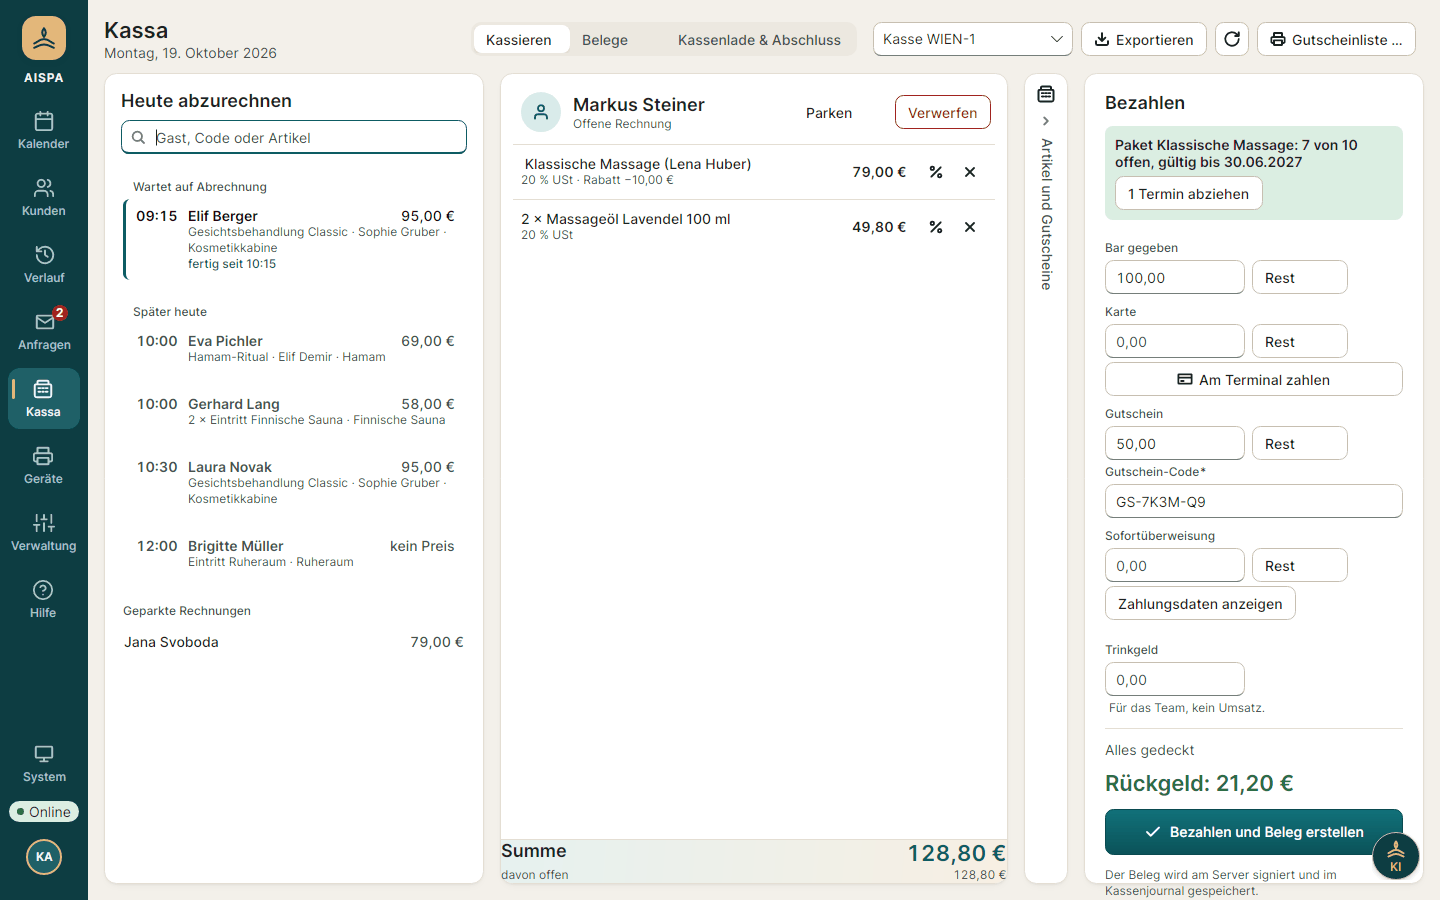
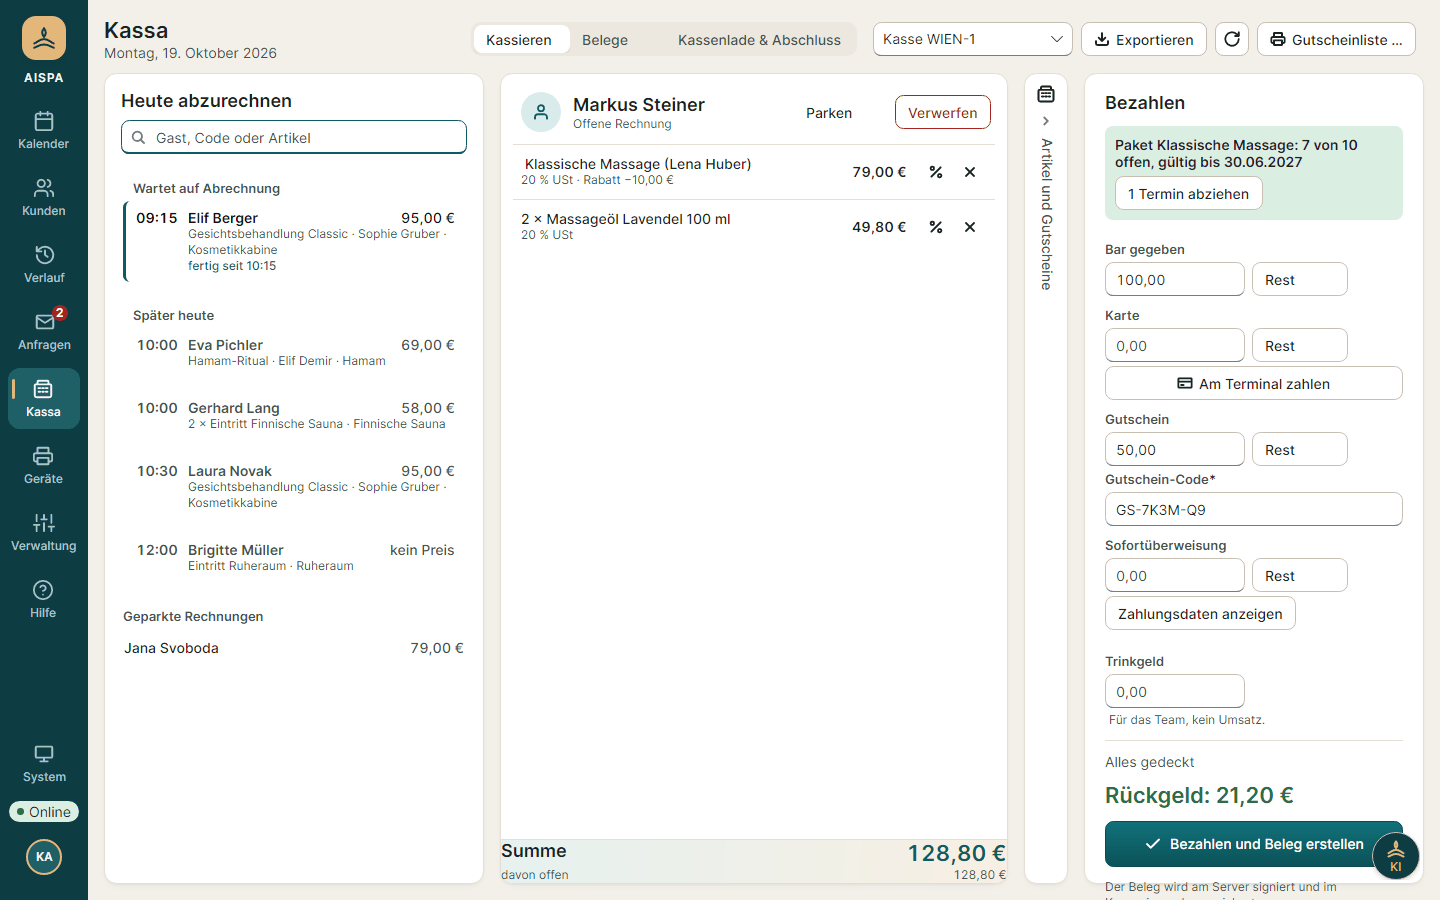
Beschriftungen größer und halbfett: Stufe „Beschriftung“ 13/600/18 (P12)
Auftrag des Auftraggebers vom 17.11.2026: Die kleinen grauen Einordnungen sind auf
allen Masken zu klein. Feldbeschriftung, Gruppentitel, Tabellenkopf und Kennzahl-
Beschriftung stehen jetzt in 13 px, Gewicht 600, Zeilenhöhe 18, fg-2; Hinweise
bleiben 12/400. Brief, Tokendatei, Styles.axaml und index.css (gemeinsame Variablen
und Regel), handgesetzte Köpfe in den Ansichten auf die Stufe gebracht, Tests und
Handbuchbilder nachgezogen.

diff --git a/web/src/index.css b/web/src/index.css
@@ -9,6 +9,10 @@
 }
 
 :root {
+  /* Stufe „Beschriftung“ (Design-Brief 3): gemeinsame Werte für Feldbeschriftung, Gruppentitel und Tabellenkopf */
+  --label-size: 13px;
+  --label-weight: 600;
+  --label-line: 18px;
   /* Farben wie in der Windows-App (Themes/Colors.axaml), damit die Verwaltung dort nicht fremd wirkt (ADR 0053). */
   --bg: #f3f0ea;
   --fg: #1a2321;
@@ -1076,7 +1080,6 @@ input[type='radio'] {
   display: flex;
   flex-direction: column;
   gap: 4px;
-  font-size: 12px;
 }
 
 .panel fieldset {
@@ -1354,12 +1357,6 @@ input[aria-invalid='true']:hover {
   gap: var(--space-label);
 }
 
-.money-field > label {
-  font-size: 12px;
-  font-weight: 500;
-  color: var(--muted);
-}
-
 .num > .money-field {
   align-items: flex-end;
 }
@@ -1374,14 +1371,30 @@ input[aria-invalid='true']:hover {
   margin-block: -4px;
 }
 
-/* Beschriftung eines Feldes (Design-Brief 3): 12,5 px, Gewicht 500, --muted, über dem Feld; Text neben Kontrollkästchen (label.inline) bleibt Text */
+/* Stufe „Beschriftung“ (Design-Brief 3, Auftraggeber 17.11.2026): 13 px, Gewicht 600, Zeilenhöhe 18, --muted. Gilt für Feldbeschriftung über dem Feld,
+   Tabellenkopf und Kennzahl-Beschriftung; Text neben Kontrollkästchen (label.inline) bleibt Text. Werte nur hier und in :root (Test designTokens.test.ts). */
 .form-grid label:not(.inline),
 .panel label:not(.inline),
 .new-customer label,
 label.stacked,
-.field-head label {
-  font-weight: 500;
+.field-head label,
+.money-field > label,
+.signup label,
+.scan-answers label:not(.inline),
+.edit-table th,
+.roster-table thead th,
+.assistant-answer th {
+  font-size: var(--label-size);
+  font-weight: var(--label-weight);
+  line-height: var(--label-line);
   color: var(--muted);
+}
+
+/* Eingabefelder erben die Schrift (font: inherit) und bleiben Text, auch innerhalb einer Beschriftung */
+:is(.form-grid label:not(.inline), .panel label:not(.inline), .new-customer label, label.stacked, .field-head label, .money-field > label, .signup label, .scan-answers label:not(.inline)) :is(input, select, textarea) {
+  font-size: 14px;
+  font-weight: 400;
+  line-height: 20px;
 }
 
 /* Das Farbfeld ist so hoch wie die anderen Felder, damit die Beschriftungen einer Zeile auf einer Höhe stehen. */
@@ -1492,9 +1505,6 @@ label.inline {
 
 .edit-table th {
   text-align: left;
-  font-weight: 500;
-  color: var(--muted);
-  font-size: 12px;
   border-bottom: 1px solid var(--border-strong);
 }
 
@@ -1812,8 +1822,6 @@ input.qty {
   position: sticky;
   top: 0;
   background: var(--surface);
-  font-weight: 500;
-  color: var(--muted);
   border-bottom-color: var(--border-strong);
 }
 
@@ -1868,7 +1876,6 @@ ul.roster-warning {
   display: flex;
   flex-direction: column;
   gap: 4px;
-  font-size: 12px;
 }
 
 /* Buchhaltung */
@@ -1987,7 +1994,6 @@ th.amount {
   display: flex;
   flex-direction: column;
   gap: 4px;
-  font-size: 12px;
 }
 
 .scan-answers .yesno {
@@ -2499,7 +2505,6 @@ label.stacked {
   display: flex;
   flex-direction: column;
   gap: var(--space-label);
-  font-size: 12px;
 }
 
 label.stacked + label.stacked,

diff --git a/web/src/designTokens.test.ts b/web/src/designTokens.test.ts
@@ -88,6 +88,14 @@ describe('Design-Token: Schriftstufen in index.css', () => {
     expect(Number(/font-weight:\s*(\d+)/.exec(block)?.[1])).toBe(gewicht)
   })
 
+  it('Beschriftung: die Variablen in :root tragen Größe, Zeilenhöhe und Gewicht des Briefs', () => {
+    const level = typeScale.schriftstufen.find((entry) => entry.name === 'Beschriftung')!
+    const root = /^:root \{([\s\S]*?)^\}/m.exec(indexCss)?.[1] ?? ''
+    expect(Number(/--label-size:\s*([0-9.]+)px/.exec(root)?.[1])).toBe(level.groesse)
+    expect(Number(/--label-line:\s*([0-9.]+)px/.exec(root)?.[1])).toBe(level.zeile)
+    expect(Number(/--label-weight:\s*(\d+)/.exec(root)?.[1])).toBe(level.gewicht)
+  })
+
   it('kennt nur Schriftgrößen der Stufen', () => {
     const sizes = [...indexCss.matchAll(/font-size:\s*([0-9.]+)px/g)].map((m) => Number(m[1]))
     expect([...new Set(sizes.filter((size) => !typeScale.schriftgroessen.includes(size)))]).toEqual([])

diff --git a/tests/AispaStudio.Desktop.Tests/ViewTests.Type.cs b/tests/AispaStudio.Desktop.Tests/ViewTests.Type.cs
@@ -19,7 +19,7 @@ public sealed partial class ViewTests
             new TextBlock { Text = "Zwischentitel 16/22 Semibold", Classes = { "h3" } },
             new TextBlock { Text = "Text 14/20 Regular: Der Termin von Mia Muster beginnt um 10:30." },
             new TextBlock { Text = "Klein 12/16 Regular: Hilfetext unter einem Feld.", Classes = { "small" } },
-            new TextBlock { Text = "Beschriftung 12/16 Medium", Classes = { "label" } },
+            new TextBlock { Text = "Beschriftung 13/18 Semibold", Classes = { "label" } },
             new TextBlock { Text = "Gruppentitel in Satzschreibweise", Classes = { "group" } },
             new Border { Classes = { "pill", "accent" }, Child = new TextBlock { Text = "Mini 12/14 Medium" } },
         },
@@ -38,8 +38,8 @@ public sealed partial class ViewTests
         Assert.Equal((16, 22, FontWeight.SemiBold), Of("Zwischentitel"));
         Assert.Equal((14, double.NaN, FontWeight.Normal), Of("Text 14"));
         Assert.Equal((12, 16, FontWeight.Normal), Of("Klein"));
-        Assert.Equal((12, 16, FontWeight.Medium), Of("Beschriftung"));
-        Assert.Equal((12, 16, FontWeight.Medium), Of("Gruppentitel"));
+        Assert.Equal((13, 18, FontWeight.SemiBold), Of("Beschriftung"));
+        Assert.Equal((13, 18, FontWeight.SemiBold), Of("Gruppentitel"));
         Assert.Equal((12, 14, FontWeight.Medium), Of("Mini"));
     }, "schriftstufen");
 }

diff --git a/docs/design.md b/docs/design.md
@@ -123,8 +123,8 @@ Text auf seiner Fläche erreicht mindestens 4,5:1. 3:1 gilt für Rahmen von Feld
 
 - Familie, beide Oberflächen: `Inter, "Segoe UI Variable Text", "Segoe UI", system-ui, sans-serif`. App: `FontFamily` einmal am `Window` setzen. **Gewollte Abweichung von Fluent 2** (Hausschrift Segoe UI Variable): Inter, damit App und Web dieselbe Schrift zeigen; Segoe UI Variable bleibt der Rückfall. Das Web liefert Inter 3.019 (dieselbe Version wie die App) als lokale Variable-WOFF2 mit `font-display: swap` und Preload aus (`web/src/assets/fonts/`), nur für die Verwaltung (Team-Oberfläche und Hilfe). Der Kundenbereich bleibt bei der Systemschrift (`system-ui`), damit er unter dem Budget von 100 kB bleibt und keine Schrift nachlädt; ebenso „Mein Tag“ und die Betreiber-Seite. Monospace nur für Belege, Protokolle und Codes: `"Cascadia Mono", Consolas, ui-monospace, monospace`.
 - Ziffern in Tabellen, Beträgen, Uhrzeiten und Kennzahlen immer mit gleicher Breite: Web `font-variant-numeric: tabular-nums`, App `FontFeatures="tnum"` (Klasse `num`).
-- Schriftgewichte: nur 400, 500, 600. 550 und 700 **DARF ES NICHT** geben. Gewicht 500 ist eine **gewollte Abweichung von Fluent 2** (Windows kennt nur Regular und Semibold): Inter 500 trägt bei Knöpfen und Beschriftungen.
-- Mindestgröße (Fluent 2, WinUI): 12 px Regular und 14 px Semibold, nichts kleiner. Satzschreibweise nach deutscher Rechtschreibung, keine Versalien zur Betonung, kein Kursiv; `TextBlock.overline` **DARF NICHT** vorkommen.
+- Schriftgewichte: nur 400, 500, 600. 550 und 700 **DARF ES NICHT** geben. Gewicht 500 ist eine **gewollte Abweichung von Fluent 2** (Windows kennt nur Regular und Semibold): Inter 500 trägt bei Knöpfen, Reitern und Pillen; Beschriftungen stehen seit 17.11.2026 in 600.
+- Mindestgröße (Fluent 2, WinUI): 12 px Regular und 14 px Semibold, nichts kleiner; die Stufe „Beschriftung“ liegt mit 13/600 darüber (*festgelegt 17.11.2026, Auftraggeber*: die kleinen grauen Einordnungen waren auf allen Masken zu klein, „zumindest in bold“; Hinweise unter Feldern bleiben 12/400). Satzschreibweise nach deutscher Rechtschreibung, keine Versalien zur Betonung, kein Kursiv; `TextBlock.overline` **DARF NICHT** vorkommen.
 
 | Stufe | Größe | Gewicht | Zeilenhöhe | Verwendung | Web | App |
 |---|---|---|---|---|---|---|
@@ -133,7 +133,7 @@ Text auf seiner Fläche erreicht mindestens 4,5:1. 3:1 gilt für Rahmen von Feld
 | Zwischentitel | 16 | 600 | 22 | Abschnitt in einer Karte („Öffnungszeiten“) | `h3` | `TextBlock.h3` |
 | Text | 14 | 400 | 20 | alles ohne andere Angabe | `body` | Standard |
 | Klein | 12 | 400 | 16 | Hilfetext unter Feldern, Untertitel in Listen, Vorperiode in Kennzahlen | `.small` | `TextBlock.small` |
-| Beschriftung | 12 | 500 | 16 | Feldbeschriftung, Tabellenkopf, Kennzahl-Beschriftung; als Gruppentitel über Listen und Abschnitten (5.6) ohne den Feldabstand | `label`, `th` | `TextBlock.label`, als Gruppentitel `TextBlock.group` |
+| Beschriftung | 13 | 600 | 18 | Feldbeschriftung, Tabellenkopf, Kennzahl-Beschriftung; als Gruppentitel über Listen und Abschnitten (5.6) ohne den Feldabstand; fg-2, Kontrast auf surface, surface-2 und surface-3 mindestens 4,5 : 1 (gemessen 17.11.2026: hell 8,1 / 7,6 / 6,6, dunkel 8,4 / 7,8 auf surface, surface-2, surface-3) | `label`, `th` | `TextBlock.label`, als Gruppentitel `TextBlock.group` |
 | Mini | 12 | 500 | 14 | Pillen, Kennzeichen, Kürzel, Streifentext | `.status`, `.badge` | `Border.pill TextBlock`, `Border.stripe TextBlock` |
 | Zahl groß | 22 | 600 | 28 | Kennzahl-Wert | `.kpi-value` | `TextBlock.kpi` |
 
@@ -249,7 +249,7 @@ Gilt für Text, Zahl, Datum, Uhrzeit, mehrzeilig.
 
 - Fläche surface, Text fg, Rahmen 1 px line-strong, **Unterkante 1 px fg-3** (Kontrast 3:1, 2.6), Radius 8, Höhe 34 (mehrzeilig mindestens 68), Innenabstand 6 oben/unten, 10 links/rechts, Schrift 14. Platzhaltertext fg-3 ist nicht erlaubt; Platzhalter in fg-2 und nur als Beispiel („z. B. 60“), nie als Beschriftung.
 - Hover: Rahmen fg-2 (auch die Unterkante). Fokus: 4.5 (Ring, Rahmen accent und Unterstrich 2 px accent). Nur lesbar: Fläche surface-2, Rahmen line, Cursor Text, Fokus und Kopieren bleiben möglich. Fehler: Rahmen danger, darunter Text 12 px danger mit dem Fehlersatz des Servers. **Warnung am Feld** (z. B. „Gast existiert schon: Mia Muster“): Rahmen warn, Text 12 px warn. **Erfolg am Feld:** Text 12 px ok, Rahmen unverändert. Fehler, Warnung und Erfolg nennen Problem und Weg und ersetzen den Hilfetext. Der Rahmen von Fehler und Warnung behält seine Farbe auch beim Fokus (**gewollte Abweichung von Fluent 2**, wo der Rahmen beim Fokus wieder neutral wird: der Fehler soll beim Korrigieren sichtbar bleiben); Fokus-Unterstrich und Ring bleiben wie in 4.5.
-- Beschriftung **immer über** dem Feld (Stufe „Beschriftung“, fg-2), Abstand 4; nie links daneben, nie als Platzhalter. Der Hilfe-Knopf (5.11) steht rechts neben dem Gruppentitel mit 6 px Abstand, nur ausnahmsweise (heikle Wirkung, im PR begründet) rechts neben einer Beschriftung. Hilfetext unter dem Feld in Stufe „Klein“, fg-2, höchstens eine Zeile; bei einem Fehler ersetzt der Fehlertext den Hilfetext. Der Hilfetext ist ein Satz mit Punkt (**gewollte Abweichung von Fluent 2**, dort ohne Punkt: ein Satz bekommt immer seinen Punkt, einheitlich mit Abschnitt 1).
+- Beschriftung **immer über** dem Feld (Stufe „Beschriftung“ 13/600/18, fg-2; *Auftraggeber, 17.11.2026*), Abstand 4; nie links daneben, nie als Platzhalter. Der Hilfe-Knopf (5.11) steht rechts neben dem Gruppentitel mit 6 px Abstand, nur ausnahmsweise (heikle Wirkung, im PR begründet) rechts neben einer Beschriftung. Hilfetext unter dem Feld in Stufe „Klein“, fg-2, höchstens eine Zeile; bei einem Fehler ersetzt der Fehlertext den Hilfetext. Der Hilfetext ist ein Satz mit Punkt (**gewollte Abweichung von Fluent 2**, dort ohne Punkt: ein Satz bekommt immer seinen Punkt, einheitlich mit Abschnitt 1).
 - Web: die Beschriftung ist per `htmlFor`/`id` (`useId`) an das Feld gebunden; ein Hilfe-Knopf steht **außerhalb** des `<label>`, sonst bindet das Label an den Knopf.
 - Breiten (Web `max-width`, App `Width`): Zahl 120, PLZ 96, Land 72, Uhrzeit 100, Datum 160, Anrede 160, kurzer Text (Name) 280, Auswahl 220, Betrag 140, E-Mail/Telefon 280, Adresse und mehrzeiliger Text 100 % der Karte. Ein Feld füllt nie „aus Versehen“ die ganze Breite.
 - Einheiten stehen in der Beschriftung in Klammern („Dauer (min)“, „Preis (€)“), nicht im Feld. Klammern gibt es **nur** für Einheiten; Erklärungen („gültiger Name“) stehen im Hilfetext. Beschriftung ist ein Substantiv ohne Doppelpunkt. **Gewollte Abweichung von Fluent 2** (dort im Platzhalter): Der Platzhalter verschwindet beim Tippen, die Einheit soll stehen bleiben.

diff --git a/docs/umsetzung/pr-protokoll.md b/docs/umsetzung/pr-protokoll.md
@@ -6738,3 +6738,19 @@ Auftraggeber (23.10.2026): „Räume sollen wie Urlaub auch gesperrt werden kön
 - **Geprüft:** `LiveDeliveryTests`: neuer Fall „Fehler aus der SignalR-Backplane wird nur gewarnt“ vor der Änderung rot (NullReferenceException aus dem Konstruktor von `RedisHubLifetimeManager` nicht erkannt), danach grün; neuer Fall „Eigener Abbruch geht weiter“ sichert die Grenze. `LiveBackplaneTests` fünfmal hintereinander mit echtem Redis; `dotnet format --verify-no-changes`, `dotnet build -c Release`.
 - **Nicht geprüft:** Der genaue Abbruch lässt sich nicht gezielt nachstellen; der Test stellt ihn mit einem anderen Fehler aus derselben Assembly nach, die Läufe mit echtem Redis treffen ihn nur zufällig.
 
+## Beschriftungen und Kategorien größer und halbfett (P12, 17.11.2026)
+
+- **Auftrag:** Die kleinen grauen Einordnungen waren auf allen Masken zu klein, „zumindest in bold“ (Auftraggeber, 17.11.2026): Feldbeschriftungen, Kategorie- und Gruppenüberschriften in Listen, Tabellenköpfe. Hinweise unter Feldern bleiben 12/400.
+- **Was:** Die Stufe „Beschriftung“ ist jetzt 13 px, Gewicht 600, Zeilenhöhe 18, Farbe fg-2 (vorher 12/500/16). `docs/design.md` (Tabelle in Abschnitt 3, Mindestgröße, gewollte Abweichung zu Gewicht 500, 5.2), `docs/design-tokens.json` (Größe 13 neu in `schriftgroessen`), `Styles.axaml` (`TextBlock.label`, `TextBlock.group`), Web `index.css` mit den Variablen `--label-size`, `--label-weight`, `--label-line` und einer gemeinsamen Regel statt verstreuter Werte (Feldbeschriftungen, `.edit-table th`, `.roster-table thead th`, `.assistant-answer th`, Betragsfeld); Eingabefelder innerhalb einer Beschriftung bleiben 14/400. `StatTile` nutzt schon `group` und folgt von selbst.
+- **Auf die Stufe gebracht (vorher `muted small` von Hand):** Spaltenköpfe in Buchhaltung, Kosten (Behandlungen und Räume), Pflichtberichten, Managementbericht und Lagerorten; Kennzahl-Beschriftungen im Kundenüberblick und in der Tagesübersicht des Kalenders sowie im Urlaubskonto; Gruppentitel im Tagesplan und „Kundennotiz“; die Kategorien der Behandlungsliste (vorher 14/400 grau) und die Gruppenüberschrift der Kontaktliste. Hinweise (`small`, `hint`) blieben unverändert.
+- **Detailentscheidungen:**
+  1. 13 px ist eine neue Größe außerhalb der Fluent-Rampe (12/14); sie ist im Brief als Stufe benannt, die Größenprüfung kennt sie über `schriftgroessen`. 600 statt 500, weil der Auftraggeber „bold“ wollte und 500 auf grauem Grund kaum vom Text abhob; 600 war schon erlaubt.
+  2. Kontrast fg-2 gemessen (WCAG-Formel, 17.11.2026): hell auf surface 8,1, surface-2 7,6, surface-3 6,6; dunkel auf surface 8,4, surface-2 7,8; alle über 4,5 : 1. Die Farbe blieb, ein Wechsel war nicht nötig.
+  3. Raster: Zeilenhöhe 18 plus 4 px Abstand zum Feld; die Feldhöhe 34 und die Abstände zwischen Feldern (Brief 4.1) ändern sich nicht, die Maske wird je Beschriftung 2 px höher.
+  4. Web mit Variablen und einem Block, die Werte in `:root` prüft `designTokens.test.ts` gegen die Tokendatei (ein Selektor der Tokendatei passt nicht, weil die Regel eine Liste ist). Die Erklärseite `/ueber/` (`about.css`) bleibt: eigene Tabelle mit 14/600 im Kopf.
+  5. Die Beschriftung „Artikelnummer beim Lieferanten“ heißt jetzt „Artikelnummer Lieferant“ (Hilfetext angepasst): Sie wurde im Lager-Formular bei 1100 Breite abgeschnitten.
+- **Bewusst offen / später:** `FormField` legt Beschriftung und Stern in ein waagrechtes `StackPanel`, deshalb bricht eine zu lange Beschriftung nicht um, sondern wird abgeschnitten, obwohl `TextWrapping="Wrap"` gesetzt ist; bei 13/600 ist das Risiko etwas größer (Fund, nicht behoben). Weitere handgesetzte Köpfe mit `muted small`, die nicht klar Spaltenköpfe sind, blieben unberührt.
+- **Geprüft:** `DesignTokenTests` und `Schriftstufen_Muster…` auf die neuen Werte angepasst (rot vor, grün nach der Änderung der Tokendatei), `TreatmentsTests`; Web `designTokens.test.ts` um die Prüfung der Variablen erweitert, ganze vitest-Suite 395 von 395, `npm run lint` und `typecheck` grün; Bildtests bei 1100 Breite (hell, dunkel): Behandlung (Grunddaten, Durchführung), Lager (Bestand mit Seitenpanel), Kosten, Kassa, Personenkarte beim Mindestfenster: kein Umbruch, keine Überlappung der Beschriftungen, bis auf den Spaltenkopf „Material“ im Bestand (siehe unten). Handbuchbilder der gerenderten Masken neu erzeugt.
+- **Nicht geprüft:** alle übrigen Masken bei 1100 (nur die dichten sind gerendert); die Web-Oberflächen im Browser (nur Tests, Lint, Typen); Windows-Hochkontrast.
+- **Beim Schreiben festgestellt:** Bei 1100 Breite und offenem Seitenpanel ist die Spalte „Material“ im Lagerbestand so schmal, dass schon die Zeilen („M…“) abgeschnitten werden; der Kassa-Titel „Kassa“ liegt unter der Schiene. Beides ist nicht gegen den alten Stand verglichen, die Ursache liegt im Aufbau, nicht in der Schrift; die Kostentabelle (11 Spalten) läuft bei 1100 rechts über.
+- **Text-Prüfung:** von Hand nach [texte.md](../gestaltung/texte.md).

diff --git a/docs/stand-und-offene-punkte.md b/docs/stand-und-offene-punkte.md
@@ -319,6 +319,7 @@ Stand: 20.10.2026, nach PR #172; Übergabe an Claude Code ([ADR 0046](entscheidu
 | Urlaubskonto ([ADR 0097](entscheidungen/0097-urlaubskonto-in-arbeitstagen-je-kalenderjahr.md)): Anspruch und Übertrag je Person und Kalenderjahr in Arbeitstagen (`EmployeeLeaveEntitlement`, Migration gleichen Namens), `GET` und `PUT /api/employees/{id}/leave-account/{jahr}`; genommen und geplant zählt der veröffentlichte Dienstplan an den Arbeitstagen der Person, ein Urlaubstag mit Dienst zählt halb; Windows-App: Abschnitt „Urlaubskonto“ auf der Karte der Person im Reiter „Dienstplan und Abwesenheit“; Hilfe `urlaubskonto` | fertig; offen: Rest beim Entscheiden eines Antrags, Mitarbeiter-App, Übersicht über alle, Lohn-Export zählt weiter Kalendertage; Arbeitsrecht offen | 16.11.2026 |
 | Verwaltungsmasken modernisieren ([ADR 0098](entscheidungen/0098-verwaltungsmasken-eine-schiene-uebersicht-seitenleiste.md)): je Seite höchstens eine Schiene mit höchstens fünf Einträgen, Karten mit Übersicht, Verlauf als Seitenleiste (masken.md R15). Schritt 1: Regeln und die Bausteine `StatTile` und `HistoryPanel`; die Masken selbst folgen in sechs Schritten (Tabelle im [Masken-Inventar](umsetzung/masken-inventar.md)). Schritt Lager (T-061): vier Reiter statt neun, Chargen und Bewegungen als Ansichten im Bestand, Lagerorte und Lieferanten unter „Einrichtung“, Verbrauch und Kennzahl-Kacheln in der Übersicht. Schritt Zahlen (T-063): „Berichte“ zeigt Management und Pflichtberichte als Abschnitte, die Sprungziele `management` und `compliance` rollen zum Abschnitt. Schritt Betrieb, Kassa & Geld und Kontakt (T-064): „Betrieb“ hat fünf Masken, Schließzeiten und Raumsperren stehen auf einer Seite, „Beendete zeigen“ ersetzt die Reiter „Aktuell“ und „Beendet“, der Verlauf der Firmendaten ist eine Seitenleiste, Listen sind 260 breit, Warnungen stehen oben. Schritt Team-Ansichten (T-066): fünf Ansichten, „Anträge“ als Seitenleiste im Wochenplan, „Wer darf was?“ und „Zuständigkeiten“ auf einer Seite. | Schritt 1, Personenkarte, Team-Ansichten, Lager, Zahlen sowie Betrieb, Kassa & Geld und Kontakt umgesetzt | PR offen |
 | Verwaltungsmasken modernisieren, Schritt 3 (Behandlung, [ADR 0098](entscheidungen/0098-verwaltungsmasken-eine-schiene-uebersicht-seitenleiste.md)): Die Karte der Behandlung hat vier Bereiche statt sieben Abschnittsreitern (Grunddaten · Durchführung · Preise und Verkauf · Qualifikationen und Räume), „Verlauf“ ist eine Schaltfläche im Kopf und öffnet die Seitenleiste; die alten Abschnittsnamen bleiben Sprungziele und führen zur Gruppe. | fertig (Windows-App) | lokaler Branch `claude/verwaltung-behandlungen`, nicht gepusht |
+| Beschriftungen größer und halbfett (P12, Auftraggeber 17.11.2026): Die Stufe „Beschriftung“ ist 13/600/18 statt 12/500/16 für Feldbeschriftungen, Gruppentitel, Tabellenköpfe und Kennzahl-Beschriftungen in App und Web; Hinweise bleiben 12/400. | fertig (Windows-App und Web) | Branch `claude/masken-beschriftungen` |
 
 ## Nicht auf `main`: offene Pull Requests und fertige Branch-Stände
 

diff --git a/web/src/help/content/lager-material-anlegen.md b/web/src/help/content/lager-material-anlegen.md
@@ -16,7 +16,7 @@ Neues Material gilt für alle Standorte; den Bestand führt das Lager je Standor
 2. **Bezeichnung** und **Einheit** eintragen, z. B. „Massageöl Lavendel“ und „ml“. Vorbelegt ist „Stück“.
 3. **Einstandspreis je Einheit (netto)** und **Mindestbestand je Standort** eintragen.
 4. Wird das Material an der Kassa verkauft, bei **Verkaufsprodukt der Kassa** den Artikel wählen.
-5. Optional **Lieferant** wählen und **Artikelnummer beim Lieferanten** eintragen. Ohne Lieferant kommt das Material nicht in den Bestellvorschlag.
+5. Optional **Lieferant** wählen und **Artikelnummer Lieferant** eintragen. Ohne Lieferant kommt das Material nicht in den Bestellvorschlag.
 6. Optional den **Barcode** von der Verpackung eintragen oder mit dem Handscanner in das Feld lesen. Dann findet der Scanner das Material im Lager und an der Kassa.
 7. Optional **Packung**, **Menge je Packung**, **Gebinde** und **Packungen je Gebinde** eintragen, z. B. Flasche, 500, Karton und 4. Dazu **Menge je Behandlung** und **Ablaufwarnung in Tagen**.
 8. Auf **Material anlegen** klicken.
